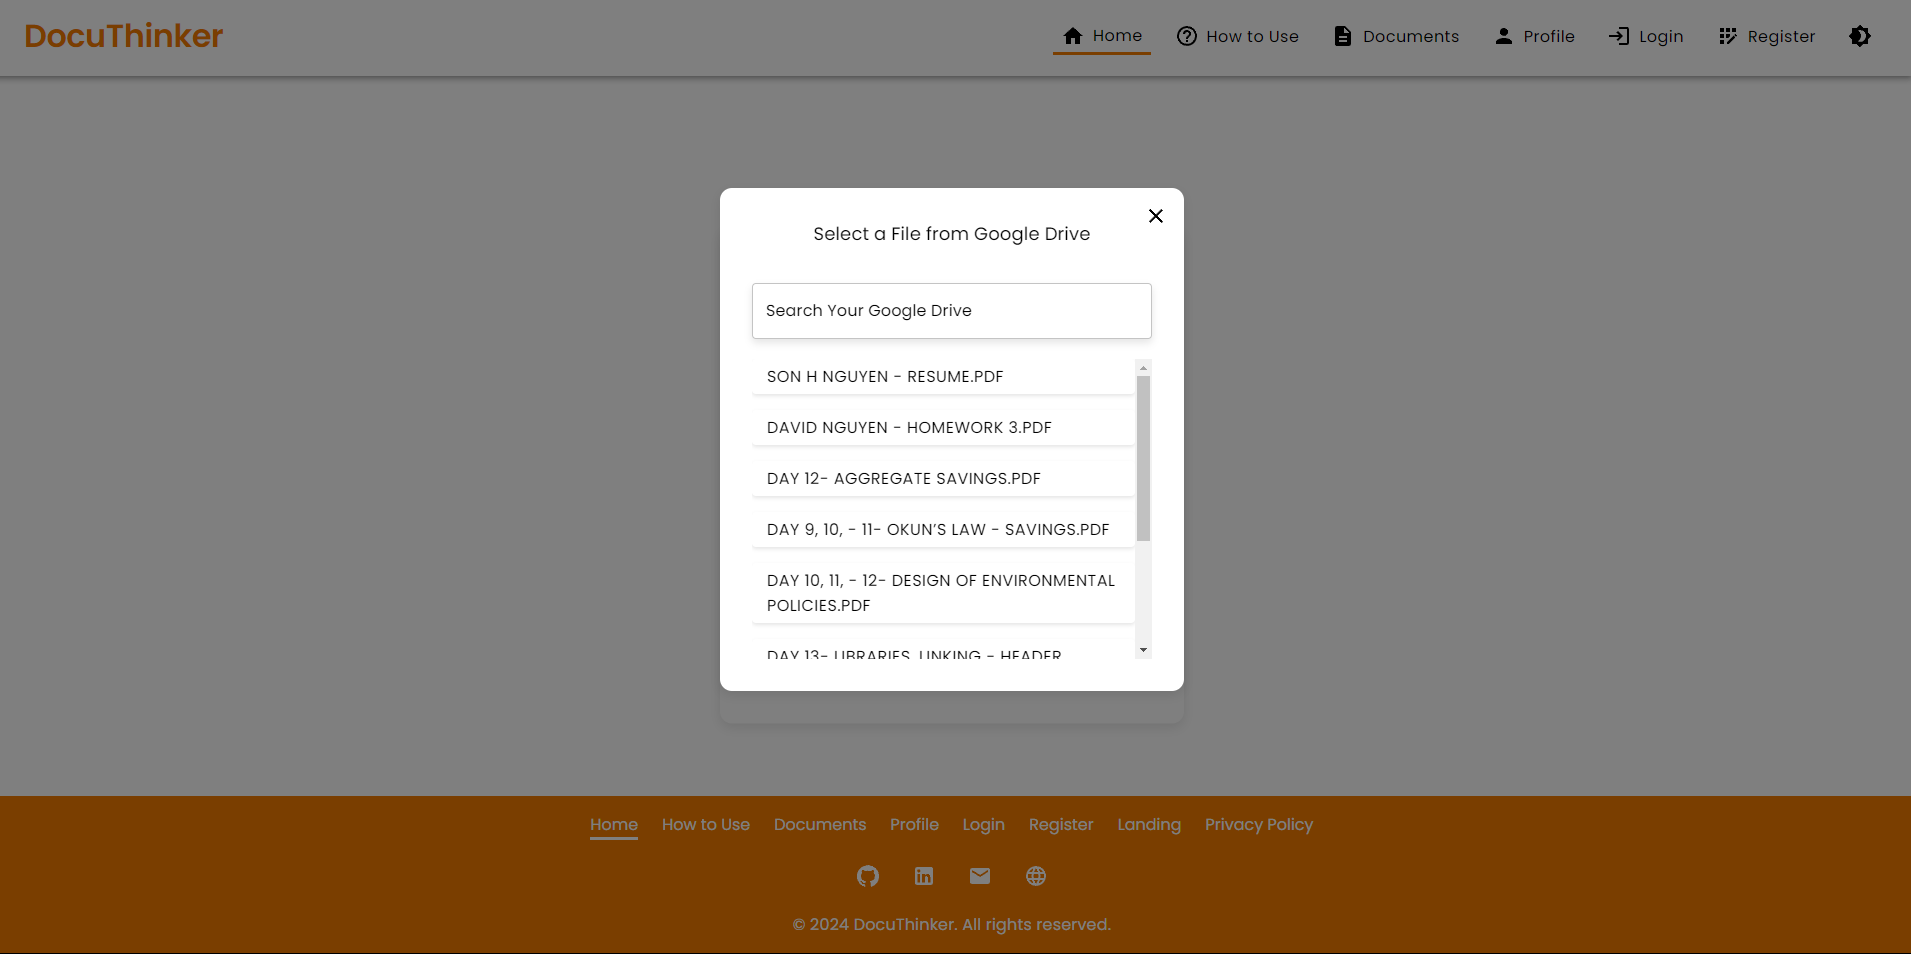
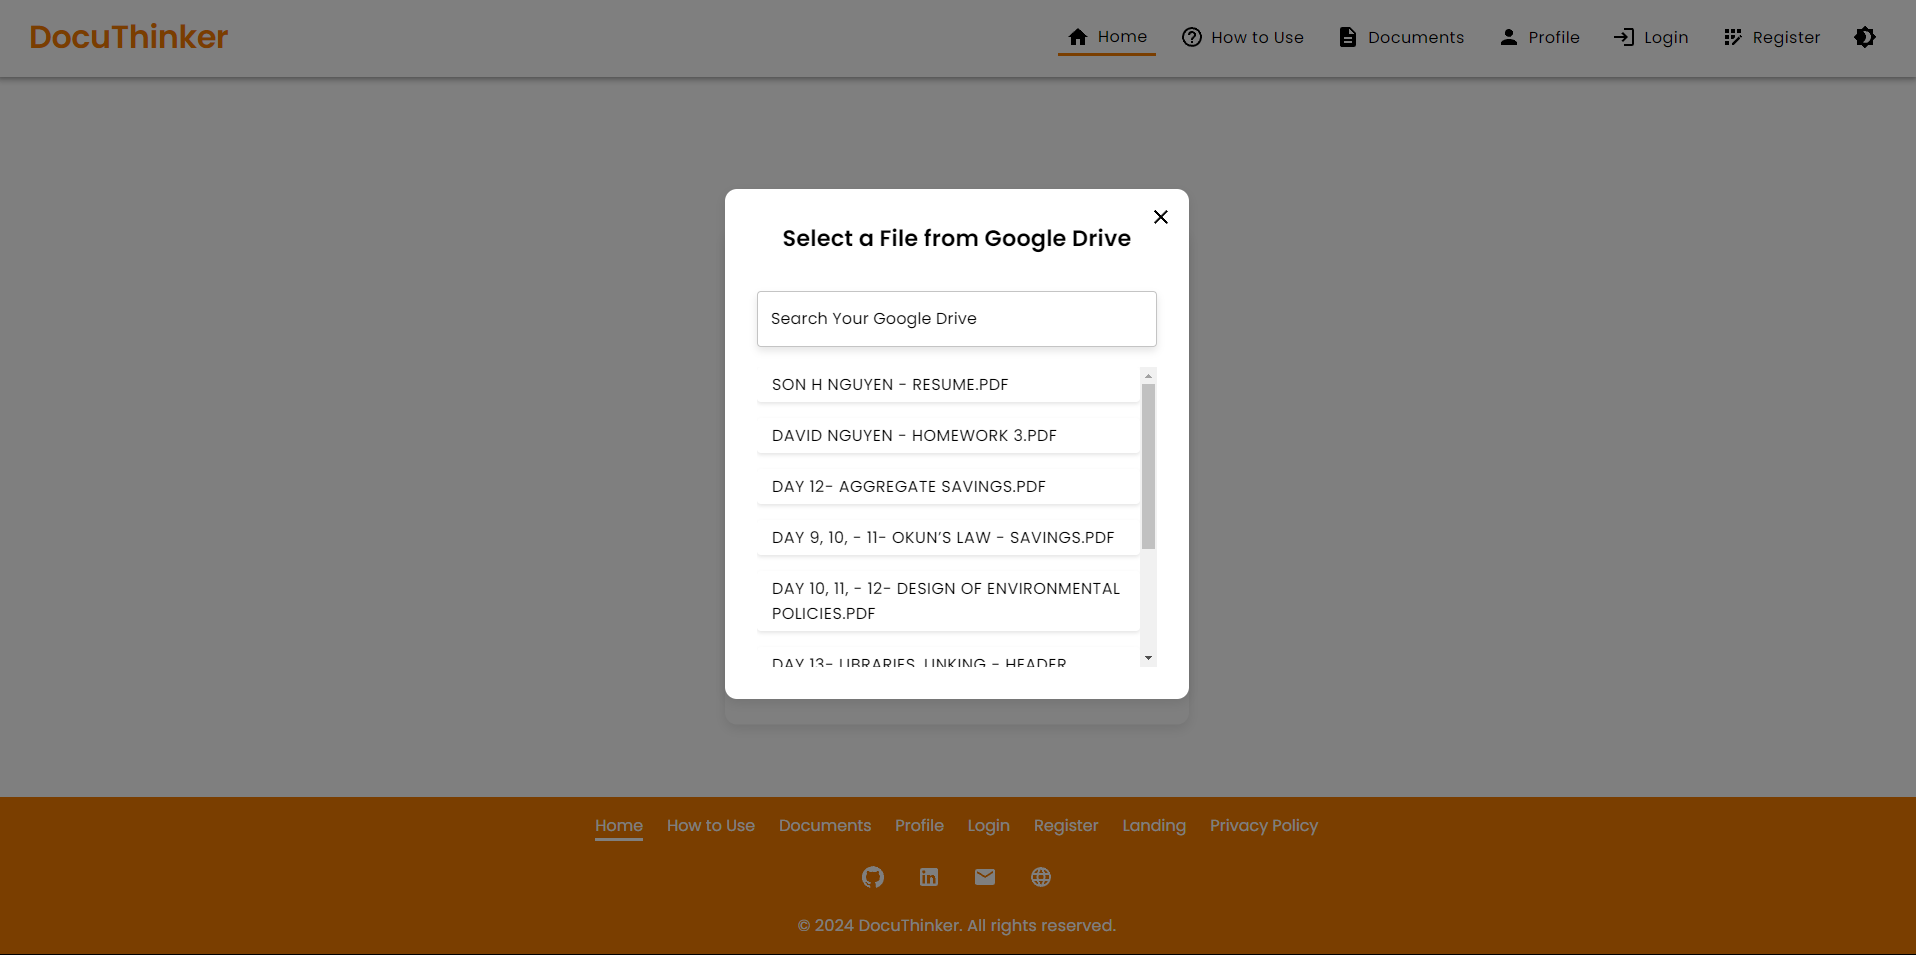
Final: App Working & React FE Done

diff --git a/frontend/public/index.html b/frontend/public/index.html
@@ -9,6 +9,23 @@
       name="description"
       content="An AI-powered document summary, analysis, and organization tool that helps you quickly understand and organize your documents."
     />
+    <meta name="google-adsense-account" content="ca-pub-6608388491200814">
+    <meta property="og:title" content="DocuThinker - AI-powered Document Summary and Analysis" />
+    <meta property="og:description" content="An AI-powered document summary, analysis, and organization tool that helps you quickly understand and organize your documents." />
+    <meta property="og:image" content="%PUBLIC_URL%/android-chrome-512x512.png" />
+    <meta property="og:url" content="https://docuthinker-fullstack-app.vercel.app/" />
+    <meta property="og:type" content="website" />
+    <meta property="og:site_name" content="DocuThinker - AI-powered Document Summary and Analysis" />
+    <meta property="og:locale" content="en_US" />
+    <meta property="twitter:card" content="summary_large_image" />
+    <meta property="twitter:title" content="DocuThinker - AI-powered Document Summary and Analysis" />
+    <meta property="twitter:description" content="An AI-powered document summary, analysis, and organization tool that helps you quickly understand and organize your documents." />
+    <meta http-equiv="content-language" content="en" />
+    <meta name="robots" content="index, follow" />
+    <meta name="keywords" content="docuthinker, document, summary, analysis, ai, artificial intelligence, nlp, natural language processing, organization, tool, web, app, application, software, webapp, document summarization, document analysis, document organization, document tool, document web app" />
+    <meta name="revisit-after" content="3 days" />
+    <meta name="distribution" content="global" />
+    <meta name="language" content="en" />
     <link rel="apple-touch-icon" href="%PUBLIC_URL%/apple-touch-icon.png" />
     <link rel="stylesheet" href="https://fonts.googleapis.com/css2?family=Poppins:wght@400;600&display=swap" />
     <!--

diff --git a/frontend/src/components/GoogleDriveFileSelectorModal.js b/frontend/src/components/GoogleDriveFileSelectorModal.js
@@ -82,15 +82,16 @@ const GoogleDriveFileSelectorModal = ({ open, handleClose, googleAuth, onFileSel
               flexDirection: 'column',
               justifyContent: 'center',
               alignItems: 'center',
-              padding: 4,
+              padding: { xs: 2, sm: 3, md: 4 },
               bgcolor: theme === 'dark' ? '#1e1e1e' : 'white',
               color: theme === 'dark' ? 'white' : 'black',
               borderRadius: '12px',
               boxShadow: '0 4px 12px rgba(0, 0, 0, 0.1)',
-              width: { xs: '90%', sm: '70%', md: '400px' },
+              width: { xs: '90%', sm: '70%', md: '50%', lg: '400px' },
+              maxWidth: '500px',
               maxHeight: '90vh',
               margin: '0 auto',
-              marginTop: '10%',
+              marginTop: { xs: '20%', sm: '10%' },
               textAlign: 'center',
               overflowY: 'auto',
             }}
@@ -112,7 +113,8 @@ const GoogleDriveFileSelectorModal = ({ open, handleClose, googleAuth, onFileSel
               sx={{
                 marginBottom: 2,
                 font: 'inherit',
-                fontSize: { xs: '16px', sm: '18px' },
+                fontSize: '1.4rem',
+                fontWeight: 'bold',
                 color: theme === 'dark' ? 'white' : 'black',
               }}
           >

diff --git a/frontend/src/pages/PrivacyPolicy.js b/frontend/src/pages/PrivacyPolicy.js
@@ -224,7 +224,7 @@ const PrivacyPolicy = ({ theme }) => {
           <div style={{ height: '20px', borderBottom: '1px solid #f0f0f0', marginBottom: '20px' }} />
 
           <Typography variant="body1" sx={{ font: 'inherit', fontWeight: 'bold' }}>
-            Made with ❤ by <a style={{ color: isDark ? 'white' : 'black' }} href="https://sonnguyenhoang.com">Son Nguyen</a> in 2024. Thank you for visiting DocuThinker! 🚀
+            Made with ❤ by <a style={{ color: '#f57c00' }} href="https://sonnguyenhoang.com">Son Nguyen</a> in 2024. Thank you for visiting DocuThinker! 🚀
           </Typography>
         </Box>
       </Box>

diff --git a/frontend/src/pages/HowToUse.js b/frontend/src/pages/HowToUse.js
@@ -300,7 +300,7 @@ const HowToUse = ({ theme }) => {
 
         {/* Thank you message */}
         <Typography sx={{ mt: 3, font: 'inherit', fontWeight: 'bold', fontSize: '18px', color: theme === 'dark' ? 'white' : 'black' }}>
-          Thank you for exploring DocuThinker today! 🚀
+          Made with ❤ by <a style={{ color: '#f57c00' }} href="https://sonnguyenhoang.com">Son Nguyen</a> in 2024. Thank you for visiting DocuThinker! 🚀
         </Typography>
       </Box>
   );

diff --git a/frontend/src/components/Footer.js b/frontend/src/components/Footer.js
@@ -78,7 +78,7 @@ const Footer = () => {
           </NavLink>
           <NavLink
               to="/privacy-policy"
-              style={isLandingActive ? activeLinkStyle : defaultLinkStyle}
+              style={({ isActive }) => (isActive ? activeLinkStyle : defaultLinkStyle)}
           >
             Privacy Policy
           </NavLink>
